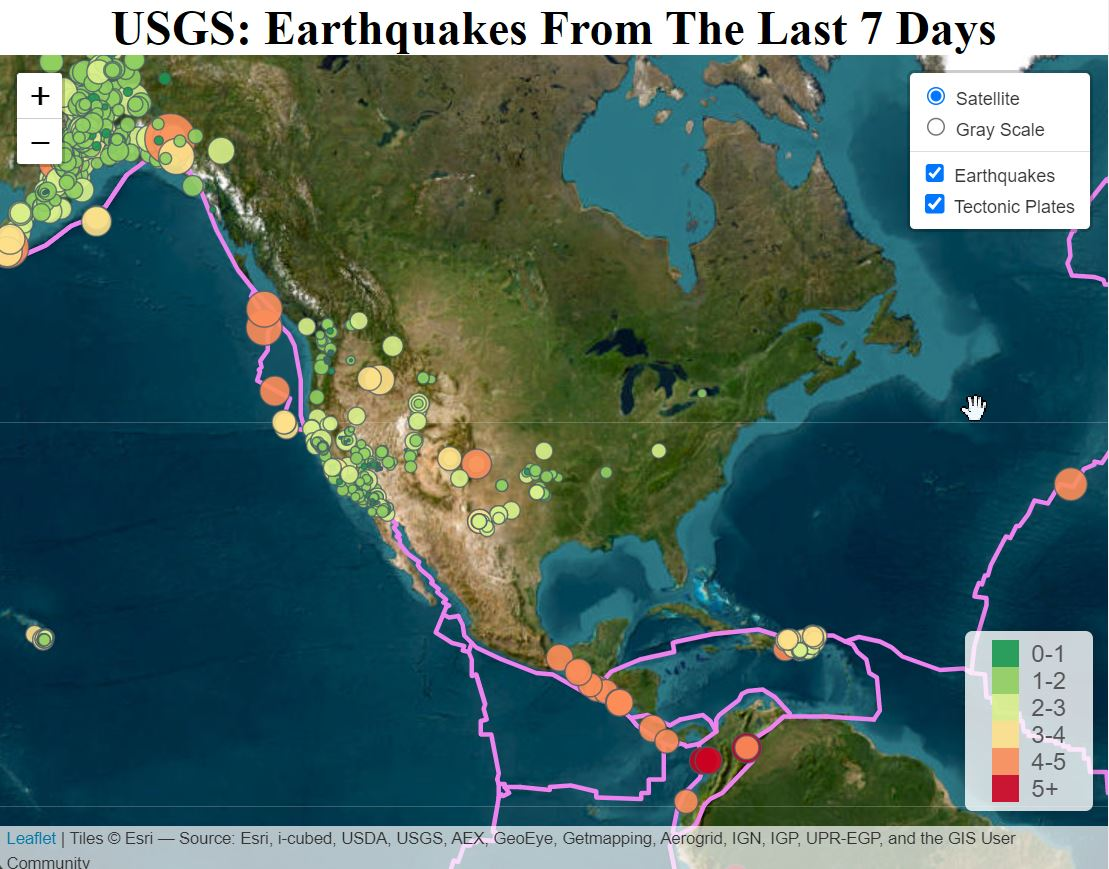
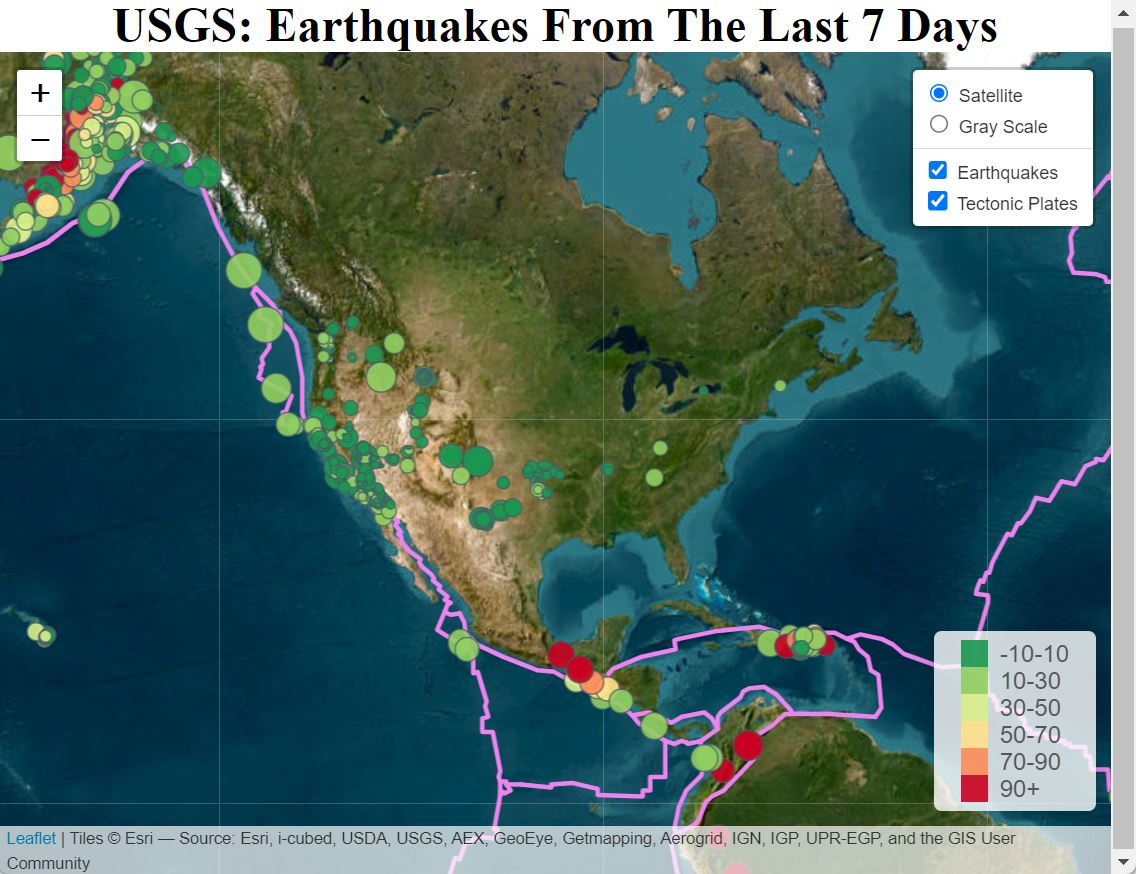
Depth controls color

diff --git a/Leaflet-Part-1-and-2/static/js/logic.js b/Leaflet-Part-1-and-2/static/js/logic.js
@@ -12,27 +12,29 @@ var plateQueryUrl = "https://raw.githubusercontent.com/fraxen/tectonicplates/mas
 // http://colorbrewer2.org/#type=diverging&scheme=RdYlGn&n=
 // ['#ca0020','#fc8d59','#fee08b','#d9ef8b','#91cf60','#1a9850']
 
-function getColor(d) {
+var giveColor = ['#1a9850','#91cf60','#d9ef8b','#fee08b','#fc8d59','#ca0020']
 
+function getColor(d) {
+ 
   let color = '';
-  if (d < 1) {
+  if (d < 10) {
     color = '#1a9850';
-  } else if (d < 2) {
+  } else if (d < 30) {
     color = '#91cf60';
-  } else if (d < 3) {
+  } else if (d < 50) {
     color = '#d9ef8b';
-  } else if (d < 4) {
+  } else if (d < 70) {
     color = '#fee08b';
-  } else if (d < 5) {
+  } else if (d < 90) {
     color = '#fc8d59';
-  } else { // magnitude 5+
+  } else { // depth 90+
     color = '#ca0020';
   }
   return color
 }
 
 function getRadius(d) {
-  // The radius in L.circle is in the unit of meters
+  // The radius in L.circle is in the unit of meters, so we need to make it larger
   return 35000 * d;
 }
 
@@ -55,8 +57,8 @@ function createFeatures(earthquakeData, plateData) {
   var earthquakes = L.geoJSON(earthquakeData, {
     pointToLayer: function (feature, latlng) {
 
-      // magnitude determines the color
-      var color = getColor(feature.properties.mag);
+      // Depth determines the color
+      var colora = getColor(feature.geometry.coordinates[2]);
 
       // Add circles to map
       return L.circle(latlng, {
@@ -64,11 +66,10 @@ function createFeatures(earthquakeData, plateData) {
         opacity: 0.75,
         fillOpacity: 0.90,
         color: "#455a64",
-        fillColor: color,
-        // Adjust radius
+        fillColor: colora,
+        // Adjust radius by magnitude
         radius: getRadius(feature.properties.mag)
-      }).bindPopup("<h4> Magnitude: " + feature.properties.mag + "<br>Location:  " + feature.properties.place +
-        "</h4><hr><p>" + new Date(feature.properties.time) + "</p>");
+      }).bindPopup("<h4> Magnitude: " + feature.properties.mag + "<br>Location:  " + feature.properties.place + "<br>Depth:  " + feature.geometry.coordinates[2] + "</p>");
     } // end pointToLayer
 
   });
@@ -127,13 +128,13 @@ function createMap(earthquakes, plates) {
   legend.onAdd = function (map) {
 
     var div = L.DomUtil.create('div', 'info legend');
-    var magnitudes = [0, 1, 2, 3, 4, 5];
-    var labels = ['0-1', '1-2', '2-3', '3-4', '4-5', '5+'];
+    var depths = [0, 1, 2, 3, 4, 5];
+    var labels = ['-10-10', '10-30', '30-50', '50-70', '70-90', '90+'];
 
-    // loop through our magnitude intervals and generate a label with a colored square for each interval
-    for (var i = 0; i < magnitudes.length; i++) {
+    // loop through our depth intervals and generate a label with a colored square for each interval
+    for (var i = 0; i < depths.length; i++) {
       div.innerHTML +=
-        '<i style="background:' + getColor(magnitudes[i]) + '"></i> ' + labels[i] + '<br>';
+        '<i style="background:' + giveColor[i] + '"></i> ' + labels[i] + '<br>';
     }
     return div;
   }; // end legend.onAdd

diff --git a/Leaflet-Part-1-and-2/index.html b/Leaflet-Part-1-and-2/index.html
@@ -13,8 +13,6 @@
   <script src="https://unpkg.com/leaflet@1.3.3/dist/leaflet.js"
     integrity="sha512-tAGcCfR4Sc5ZP5ZoVz0quoZDYX5aCtEm/eu1KhSLj2c9eFrylXZknQYmxUssFaVJKvvc0dJQixhGjG2yXWiV9Q=="
     crossorigin=""></script>
-  <!--  Leaflet providers to use free tile layers.-->
-  <script src="js/leaflet-providers.js"></script>
 
   <!--D3 cdn-->
   <script src="https://cdnjs.cloudflare.com/ajax/libs/d3/4.5.0/d3.min.js"></script>

diff --git a/README.md b/README.md
@@ -17,14 +17,14 @@ Your first task is to visualize an earthquake dataset.
 Complete the following steps:
 1.	Get your dataset. To do so, follow these steps:
 	1. The USGS provides earthquake data in a number of different formats, updated every five minutes. 
-	2. 	Visit the [GeoJSON](http://earthquake.usgs.gov/earthquakes/feed/v1.0/geojson.php) page and choose a dataset to visualize.
+	2. 	Visit the [USGS GeoJSON Feed](http://earthquake.usgs.gov/earthquakes/feed/v1.0/geojson.php) page and choose a dataset to visualize.
 	3.	When you click a dataset (such as "All Earthquakes from the Past 7 Days"), you will be given a JSON representation of that data. 
 	4.	Use the URL of this JSON to pull in the data for the visualization. 
 2.	Import and visualize the data by doing the following:
 	1.	Using Leaflet, create a map that plots all the earthquakes from your dataset based on their longitude and latitude.
 	2.	Your data markers should reflect the magnitude of the earthquake by their size and the depth of the earthquake by color. 
 		Earthquakes with higher magnitudes should appear larger, and earthquakes with greater depth should appear darker in color.
-		Hint: The depth of the earth can be found as the third coordinate for each earthquake.
+		***Hint:*** The depth of the earth can be found as the third coordinate for each earthquake.
 	3.	Include popups that provide additional information about the earthquake when its associated marker is clicked.
 	4.  Create a legend that will provide context for your map data.
 
@@ -32,12 +32,12 @@ Complete the following steps:
 
 Plot a second dataset on your map to illustrate the relationship between tectonic plates and seismic activity. 
 You will need to pull in this dataset and visualize it alongside your original data. 
-Data on tectonic plates can be found at [Plates](https://github.com/fraxen/tectonicplates)
+Data on tectonic plates can be found at [https://github.com/fraxen/tectonicplates](https://github.com/fraxen/tectonicplates)
 
 
 ## Screenshots
 
-<img src="https://github.com/VOstapow/leaflet-challenge/blob/main/Leaflet-Part-1-and-2/Images/Satellite.jpg" width="800" />
+<img src="https://github.com/VOstapow/leaflet-challenge/blob/main/Leaflet-Part-1-and-2/Images/Satellite1.jpg" width="800" />
 <img src="https://github.com/VOstapow/leaflet-challenge/blob/main/Leaflet-Part-1-and-2/Images/GrayScale.jpg" width="800" />
 
 
